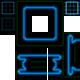
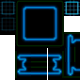
Map highlight should fade in and out

Changed region(s): [[0.4, 0.2, 0.6, 0.4]]

diff --git a/src/Objects/Map2D.js b/src/Objects/Map2D.js
@@ -46,7 +46,7 @@ function extendTilemap(tilemap) {
 
         if (collides === undefined) { collides = true; }
         if (recalculate === undefined) { recalculate = true; }
-        
+
         layer = this.getLayer(layer);
 
         if (typeof indexes === 'number')
@@ -86,7 +86,7 @@ function extendTilemap(tilemap) {
 
         if (collides === undefined) { collides = true; }
         if (recalculate === undefined) { recalculate = true; }
-        
+
         layer = this.getLayer(layer);
 
         if (start > stop)
@@ -205,6 +205,7 @@ Map2D.prototype.init = function(params) {
     //this.tilemap = this.game.add.tilemap('mapData');
     //this.tilemap.addTilesetImage(Hackatron.mapConfig.tilesetKey, cacheKey('my-tiledmap', 'tileset', 'general'));
 
+    this.tween = this.game.add.tween(this.tilemap.layers[1]).to({alpha: 0}, 250, 'Linear', true, 0, -1, true);
     this.data = this.tilemap.layers[0].tiles;
 
     // this.layer = this.tilemap.createLayer('Background');
@@ -236,5 +237,5 @@ Map2D.prototype.init = function(params) {
 };
 
 Map2D.prototype.enablePowerups = function(params) {
-    
+
 };
